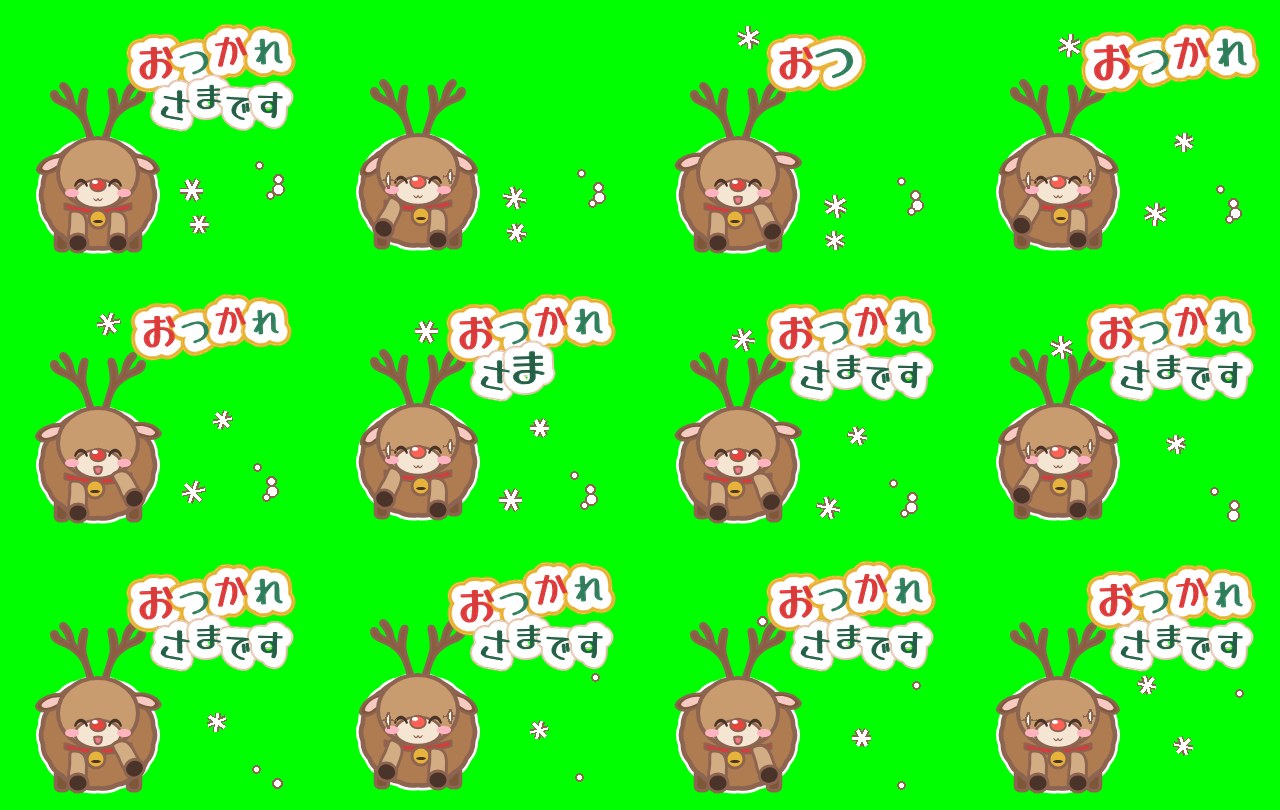
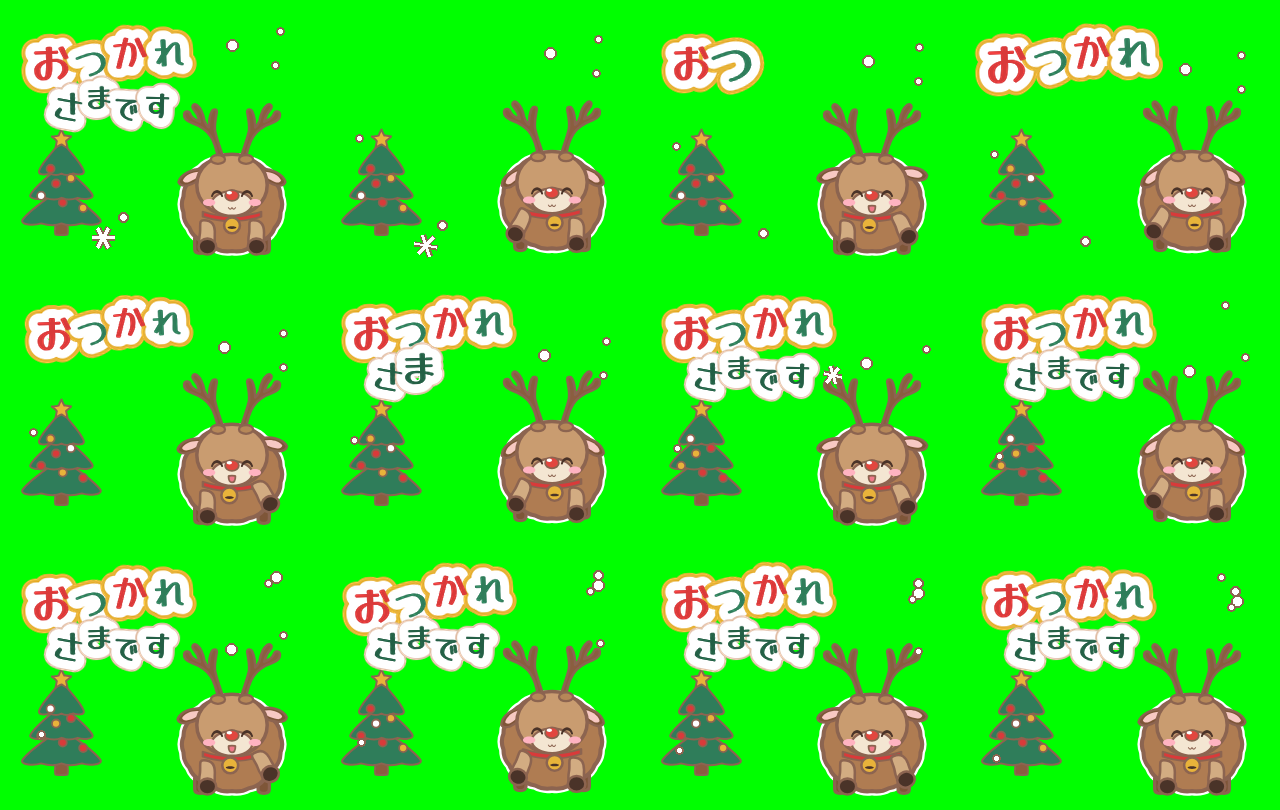
set04: サンタとトナカイを再修正(帽子のカーブ・腕の位置・口・ベルト・角・ツリー)、決まりごとに追加
Claude-Session: https://claude.ai/code/session_01RfomAZL54wRevPjVr3cHPk

diff --git a/tools/xmas.py b/tools/xmas.py
@@ -168,11 +168,14 @@ def reindeer(c):
     put(c, "NECK3_bellline", HOOF, 0, 10, 3, 155 + fx + sw_, 222 + fy, soft.ellipse_d(10, 3))
     # 前足(体の前、明るい茶+ひづめ)。付け根を支点に大きく動かす
     fl, fr_ = p.get("fl", 0), p.get("fr", 0)
-    arm_part(c, "P6", bcx - 20, by + bh - 40, fl, 36, 20, DEER_FRONT, HOOF, 20, lift=p.get("lfl", 0))
-    arm_part(c, "P7", bcx + 20, by + bh - 40, -fr_, 36, 20, DEER_FRONT, HOOF, 20, lift=p.get("lfr", 0))
+    arm_part(c, "P6", bcx - 28, by + bh - 38, fl, 34, 20, DEER_FRONT, HOOF, 20, lift=p.get("lfl", 0))
+    arm_part(c, "P7", bcx + 28, by + bh - 38, -fr_, 34, 20, DEER_FRONT, HOOF, 20, lift=p.get("lfr", 0))
     # 角: 頭のてっぺんから(根元は顔に重ねて隠す)。顔より後ろ、体より前
-    put(c, "FACE0a_antlerL", ANTLER, 2, 62, 62, 104 + fx, 84 + fy, ANTLER_LP, vw=200, vh=200)
-    put(c, "FACE0a_antlerR", ANTLER, 2, 62, 62, 154 + fx, 84 + fy, ANTLER_RP, vw=200, vh=200)
+    put(c, "ANTL1", ANTLER, 2.4, 64, 64, 96 + fx, 82 + fy, ANTLER_LP, vw=200, vh=200)
+    put(c, "ANTL2", ANTLER, 2.4, 64, 64, 160 + fx, 82 + fy, ANTLER_RP, vw=200, vh=200)
+    # 根元のこぶ(頭のてっぺんにのせる)
+    put(c, "ANTL3", ANTLER_L2, 2, 16, 10, 136 + fx, 141 + fy, soft.ellipse_d(16, 10))
+    put(c, "ANTL4", ANTLER_L2, 2, 16, 10, 168 + fx, 141 + fy, soft.ellipse_d(16, 10))
     deer_ear(c, 130 + fx, 160 + fy, -1, -20 + p.get("el", 0))
     deer_ear(c, 190 + fx, 160 + fy, 1, 20 + p.get("er", 0))
     put(c, "FACE1", DEER_FACE, 3.4, 80, 70, 120 + fx, 140 + fy, soft.ellipse_d(80, 70))
@@ -180,7 +183,7 @@ def reindeer(c):
     small_eyes(c)
     c["P12"]["left"] += 8
     c["P13"]["left"] -= 8
-    glow = p.get("glow", False)
+    glow = False  # 鼻は点滅させない(目のまわりがちかちかしないように)
     nx, ny = 160 + fx, 188 + fy
     c["P14"].update(d=soft.ellipse_d(20, 16), fill="#FF6157" if glow else "#E2463F", w=20, h=16, vw=20, vh=16,
                     left=nx - 10, top=ny - 9, sw=2, stroke=inko.INK, keep=soft.ellipse_d(20, 16))
@@ -196,6 +199,8 @@ def xmas_order(key):
         return winter.ORDER.index("P5") - 0.7
     if key.startswith("FACE0b"):  # 耳
         return winter.ORDER.index("P5") - 0.6
+    if key.startswith("ANTL"):  # 角: 顔より前(根元が頭のてっぺんにのって見える)、目より後ろ
+        return winter.ORDER.index("P5") - 0.3
     if key.startswith("NECK"):  # トナカイの首輪と鈴: 体より前、角・顔より後ろ…ではなく、あごの下に見せるので顔より前
         return winter.ORDER.index("P5") - 0.4
     if key.startswith("BEARD"):  # サンタのひげ: ベルトより前、鼻と口より後ろ
@@ -208,7 +213,7 @@ soft.inko_order = xmas_order
 
 
 # ---- サンタ -----------------------------------------------------------------------
-HAT_CONE = "M4 40 C10 22 26 6 48 4 C60 4 70 10 76 18 L60 40 Z"     # 80x42。右上へ尖る
+HAT_CONE = "M4 42 C6 24 20 8 42 5 C56 3 68 8 76 16 C80 20 79 25 75 27 C70 22 64 21 60 24 C58 30 62 36 66 42 C46 46 22 46 4 42 Z"  # 80x46。全部カーブ、先は右へたれる
 BEARD = _circles(184, 96, 128, 54, 10, 42)        # 4倍(368x192 → 92x48)
 BEARD_IN = _circles(184, 96, 128, 54, 10, 42, shrink=9)
 STACHE_L = "M30 10 C24 2 12 0 4 6 C0 10 4 16 10 14 C16 12 22 14 30 14 Z"
@@ -237,31 +242,31 @@ def santa(c):
     bx, by, bw, bh = b["left"], b["top"], b["w"], b["h"]
     bcx = bx + bw / 2
     # すその白い毛・ベルト・バックル(すべて体の位置から置く → 体と一緒に動く)
-    put(c, "MID0_hem", WHITE, 2.4, bw * 0.78, 14, bcx - bw * 0.39, by + bh - 18, soft.ellipse_d(bw * 0.78, 14))
-    put(c, "MID1_belt", "#3A2E2E", 2, bw * 0.86, 12, bcx - bw * 0.43, by + bh * 0.58, soft.ellipse_d(bw * 0.86, 12))
-    put(c, "MID2_buckle", GOLD, 2, 20, 16, bcx - 10, by + bh * 0.58 - 2, "M3 1 L17 1 C19 1 19 3 19 3 L19 13 C19 15 17 15 17 15 L3 15 C1 15 1 13 1 13 L1 3 C1 1 3 1 3 1 Z")
+    put(c, "MID0_hem", WHITE, 2.4, bw * 0.7, 12, bcx - bw * 0.35, by + bh - 12, soft.ellipse_d(bw * 0.7, 12))
+    put(c, "MID1_belt", "#3A2E2E", 2, bw * 0.9, 13, bcx - bw * 0.45, by + bh * 0.74, soft.ellipse_d(bw * 0.9, 13))
+    put(c, "MID2_buckle", GOLD, 2, 20, 16, bcx - 10, by + bh * 0.74 - 2, "M3 1 L17 1 C19 1 19 3 19 3 L19 13 C19 15 17 15 17 15 L3 15 C1 15 1 13 1 13 L1 3 C1 1 3 1 3 1 Z")
     # 長ぐつ(黒+白い毛のふち)
     for k, x, up in (("P2", bcx - 22, p.get("hl", 0)), ("P3", bcx + 22, p.get("hr", 0))):
         d = BOOT if k == "P3" else mirror(BOOT, 28)
         c[k].update(d=d, fill="#3A2E2E", w=28, h=20, vw=28, vh=20, left=x - 14, top=by + bh - 10 - up, keep=d)
     # 腕: 太い袖(赤)+白い毛の袖口+白い手ぶくろ。肩を支点に大きく動く
     al, ar = p.get("al", 0), p.get("ar", 0)
-    arm_part(c, "P6", bx + 16, by + 20, 28 + al, 36, 22, RED_D, WHITE, 20, cuff=WHITE)
-    arm_part(c, "P7", bx + bw - 16, by + 20, -28 - ar, 36, 22, RED_D, WHITE, 20, cuff=WHITE)
+    arm_part(c, "P6", bx + 10, by + bh * 0.45, 30 + al, 34, 22, RED_D, WHITE, 20, cuff=WHITE)
+    arm_part(c, "P7", bx + bw - 10, by + bh * 0.45, -30 - ar, 34, 22, RED_D, WHITE, 20, cuff=WHITE)
     # 顔
     put(c, "FACE1", SKIN, 3.4, 80, 72, 120 + fx, 140 + fy, soft.ellipse_d(80, 72))
-    put(c, "BEARD1", WHITE, 2, 92, 48, 114 + fx, 196 + fy, BEARD, vw=368, vh=192)
-    put(c, "BEARD2_in", WHITE, 0, 92, 48, 114 + fx, 196 + fy, BEARD_IN, vw=368, vh=192)
+    put(c, "BEARD1", WHITE, 2, 86, 42, 117 + fx, 190 + fy, BEARD, vw=368, vh=192)
+    put(c, "BEARD2_in", WHITE, 0, 86, 42, 117 + fx, 190 + fy, BEARD_IN, vw=368, vh=192)
     small_eyes(c, 0.86)
     c["P12"]["left"] += 6
     c["P13"]["left"] -= 6
     # 鼻(目の間の少し下)
     c["P14"].update(d=soft.ellipse_d(15, 12), fill=SKIN_D, w=15, h=12, vw=15, vh=12,
-                    left=152.5 + fx, top=190 + fy, sw=2, stroke=inko.INK, keep=soft.ellipse_d(15, 12))
+                    left=152.5 + fx, top=184 + fy, sw=2, stroke=inko.INK, keep=soft.ellipse_d(15, 12))
     # 口ひげ(鼻の下)と口(口ひげの下、人のにっこり)
-    put(c, "P14y_stacheL", WHITE, 2, 30, 14, 130 + fx, 199 + fy, STACHE_L, vw=34, vh=16)
-    put(c, "P14y_stacheR", WHITE, 2, 30, 14, 160 + fx, 199 + fy, STACHE_R, vw=34, vh=16)
-    c["P15"].update(d=SMILE, fill=soft.LINE, sw=0, stroke=None, w=20, h=10, vw=22, vh=12, left=150 + fx, top=213 + fy,
+    put(c, "P14y_stacheL", WHITE, 2, 24, 11, 136 + fx, 193 + fy, STACHE_L, vw=34, vh=16)
+    put(c, "P14y_stacheR", WHITE, 2, 24, 11, 160 + fx, 193 + fy, STACHE_R, vw=34, vh=16)
+    c["P15"].update(d=SMILE, fill=soft.LINE, sw=0, stroke=None, w=20, h=10, vw=22, vh=12, left=150 + fx, top=203 + fy,
                     keep=SMILE)
     # 帽子: ふち(白)は顔について行く。円すい部分は、ぼんぼりと一緒に swing 度だけ遅れてゆれる
     sw_ = p.get("hat", 0)
@@ -270,12 +275,12 @@ def santa(c):
     cone_cx, cone_cy = band_cx + 4, band_cy - 20
     ccx = band_cx + (cone_cx - band_cx) * math.cos(r) - (cone_cy - band_cy) * math.sin(r)
     ccy = band_cy + (cone_cx - band_cx) * math.sin(r) + (cone_cy - band_cy) * math.cos(r)
-    put(c, "ACC1_hat", RED, 2.4, 86, 46, ccx - 43, ccy - 23, HAT_CONE, rot=sw_, vw=80, vh=42)
-    tip_x, tip_y = 76 / 80 * 86 - 43, 18 / 42 * 46 - 23  # 帽子の先(箱の中心から)
+    put(c, "ACC1_hat", RED, 2.4, 86, 48, ccx - 43, ccy - 24, HAT_CONE, rot=sw_, vw=80, vh=46)
+    tip_x, tip_y = 77 / 80 * 86 - 43, 22 / 46 * 48 - 24  # 帽子の先(箱の中心から)
     px_ = ccx + tip_x * math.cos(r) - tip_y * math.sin(r)
     py_ = ccy + tip_x * math.sin(r) + tip_y * math.cos(r)
-    band = "M10 4 L170 4 C178 4 182 10 182 18 C182 26 178 32 170 32 L10 32 C2 32 -2 26 -2 18 C-2 10 2 4 10 4 Z"
-    put(c, "ACC2_hatband", WHITE, 2.4, 92, 20, band_cx - 46, band_cy - 10, band, vw=180, vh=36)
+    band = "M10 6 C60 0 120 0 170 6 C180 8 182 14 182 20 C182 28 176 32 168 32 C120 26 60 26 12 32 C4 32 -2 28 -2 20 C-2 12 2 7 10 6 Z"
+    put(c, "ACC2_hatband", WHITE, 2.4, 92, 20, band_cx - 46, band_cy - 10, band, vw=180, vh=36)  # ふちもゆるく弧に
     put(c, "ACC3_pom", WHITE, 2.4, 22, 22, px_ - 11, py_ - 11, soft.ellipse_d(22, 22))
 
 
@@ -285,6 +290,54 @@ def talk_santa(c):
 
 def talk_deer(c):
     c["P15"].update(d=MOUTH_OPEN, fill=soft.BEAK_OPEN_FILL, sw=1.5, stroke=inko.INK, keep=MOUTH_OPEN)
+
+
+# ---- ツリー(背景に置く。キャラには付いて行かない) ------------------------------------
+
+def tier_path(w, h):
+    """ツリーの段: 上はとがらせず丸く、横はふくらんだカーブ、下のふちは3つの波。直線を使わない。"""
+    c = w / 2
+    return (f"M{c - 4:.1f} 2 C{c - 2:.1f} 0 {c + 2:.1f} 0 {c + 4:.1f} 2 "
+            f"C{c + w * 0.2:.1f} {h * 0.3:.1f} {w * 0.92:.1f} {h * 0.62:.1f} {w - 2:.1f} {h * 0.86:.1f} "
+            f"C{w:.1f} {h - 1:.1f} {w * 0.84:.1f} {h:.1f} {w * 0.75:.1f} {h * 0.94:.1f} "
+            f"C{w * 0.66:.1f} {h:.1f} {w * 0.56:.1f} {h:.1f} {c:.1f} {h * 0.94:.1f} "
+            f"C{w * 0.44:.1f} {h:.1f} {w * 0.34:.1f} {h:.1f} {w * 0.25:.1f} {h * 0.94:.1f} "
+            f"C{w * 0.16:.1f} {h:.1f} 0 {h - 1:.1f} 2 {h * 0.86:.1f} "
+            f"C{w * 0.08:.1f} {h * 0.62:.1f} {c - w * 0.2:.1f} {h * 0.3:.1f} {c - 4:.1f} 2 Z")
+
+
+def star_path(r):
+    """角を丸めた5つの角の星(直線を使わない)。"""
+    pts = []
+    for k in range(10):
+        a = -math.pi / 2 + k * math.pi / 5
+        rr = r if k % 2 == 0 else r * 0.48
+        pts.append((r + rr * math.cos(a), r + rr * math.sin(a)))
+    d = f"M{pts[0][0]:.1f} {pts[0][1]:.1f}"
+    for k in range(1, 11):
+        x0, y0 = pts[k - 1]
+        x1, y1 = pts[k % 10]
+        d += f" C{x0 + (x1 - x0) * 0.4:.1f} {y0 + (y1 - y0) * 0.4 + (1 if k % 2 else -1):.1f} " \
+             f"{x0 + (x1 - x0) * 0.6:.1f} {y0 + (y1 - y0) * 0.6:.1f} {x1:.1f} {y1:.1f}"
+    return d + " Z"
+
+
+def tree(x, y, k=1.0, lights=0):
+    """ツリー(左上 x, y、高さ約 150*k)。深い緑の3段、赤と金の玉、てっぺんに金の星、茶色の幹。
+    lights: 玉の色を順番に入れかえる(点滅ではなく、ゆっくり色が変わる)。"""
+    def f(c):
+        def tp(key, fill, sw, w, h, dx, dy, d):
+            put(c, key, fill, sw, w * k, h * k, x + dx * k, y + dy * k, d, vw=w, vh=h)
+        tp("BG3_trunk", "#8A5E40", 2.4, 22, 22, 49, 126, "M4 1 C8 0 14 0 18 1 C20 6 21 14 20 21 C14 22 8 22 2 21 C1 14 2 6 4 1 Z")
+        tp("BG4_t3", GREEN, 2.4, 120, 54, 0, 80, tier_path(120, 54))
+        tp("BG5_t2", GREEN, 2.4, 96, 50, 12, 46, tier_path(96, 50))
+        tp("BG6_t1", GREEN, 2.4, 70, 48, 25, 12, tier_path(70, 48))
+        cols = [RED, GOLD, "#FFFFFF", RED, GOLD, RED]
+        spots = [(44, 50), (74, 64), (30, 90), (62, 100), (92, 108), (52, 72)]
+        for j, (ox, oy) in enumerate(spots):
+            tp(f"BG7_orn{j}", cols[(j + lights) % len(cols)], 2, 12, 12, ox - 6, oy - 6, soft.ellipse_d(12, 12))
+        tp("BG8_star", GOLD, 2.4, 30, 30, 45, -8, star_path(15))
+    return f
 
 
 # ---- 台本 -------------------------------------------------------------------------
@@ -308,11 +361,16 @@ def both(*fs):
 
 # 01 サンタ「メリー/クリスマス」: 真ん中の少し左に大きく。文字は右上へ斜めに。
 #    跳ねて両手を上げ(ばんざい)、着地でぺこり。帽子の先は遅れて大きくゆれる。
-POSE01 = [S, J0, J1, J2, J1, J0, S, B1, B2, B1, S, S]
-MOVE01 = [dict(), dict(al=-6, ar=-6, hat=-6), dict(al=30, ar=26, hat=-14, hl=4), dict(al=36, ar=34, hat=10, hl=6, hr=6),
+POSE01 = [S, J0, J1, J1, J1, J0, S, B1, B2, B1, S, S]  # 高く跳ねすぎて文字にかからないよう J2 は使わない
+MOVE01_OLD = [dict(), dict(al=-6, ar=-6, hat=-6), dict(al=30, ar=26, hat=-14, hl=4), dict(al=36, ar=34, hat=10, hl=6, hr=6),
           dict(al=26, ar=30, hat=18), dict(al=4, ar=8, hat=6, hr=4), dict(al=-4, ar=-2, hat=-8),
           dict(al=-14, ar=-14, hat=-12), dict(al=-18, ar=-18, hat=8), dict(al=-12, ar=-10, hat=14),
           dict(al=10, ar=-4, hat=-6, hl=3), dict(al=-4, ar=12, hat=4, hr=3)]
+# 左手は大きくふり上げて手をふる、右手は少し遅れて小さく(左右で別の動き)
+MOVE01 = [dict(), dict(al=10, ar=-8, hat=-6, hl=3), dict(al=34, ar=-4, hat=-14), dict(al=50, ar=8, hat=-4, hr=4),
+          dict(al=36, ar=22, hat=12, hl=4), dict(al=52, ar=12, hat=18), dict(al=30, ar=-6, hat=6, hr=3),
+          dict(al=-4, ar=-14, hat=-10), dict(al=-12, ar=-20, hat=6), dict(al=-6, ar=-12, hat=14),
+          dict(al=24, ar=0, hat=-4, hl=3), dict(al=40, ar=10, hat=4, hr=3)]
 # 05 トナカイ「おつかれ/さまです」: 左に置いて、文字は右に。前足を交互に大きく上げて歩く。鼻がぴかっ
 MOVE05 = [dict(), dict(fl=26, lfl=8, el=-14, er=8, bell=3, glow=True), dict(fr=26, lfr=8, el=8, er=-14, bell=-3),
           dict(fl=30, lfl=10, el=-12, er=6, bell=3, glow=True), dict(fr=30, lfr=10, el=6, er=-12, bell=-3),
@@ -328,12 +386,13 @@ def bob(dy):
 
 STAMPS = {
     "01": make("xmas", [("メリー", 44, True), ("クリスマス", 32, True)], "B",
-               lambda i: [POSE01[i], happy, P(**MOVE01[i]), santa], both(bells_travel, snowf(1)),
-               m=dict(scale=0.88, anchor=(104, 240)), x0=96),
-    "05": make("xmas", [("おつかれ", 38, True), ("さまです", 32, False)], "A",
-               lambda i: [S, happy, (lambda c, d=BOB05[i]: inko.move(c, list(c), dy=d)), P(**MOVE05[i]), reindeer],
-               lambda i, av: ([("spark", 68, 180, 8), ("spark", 130, 176, 7)] if MOVE05[i].get("glow") else [])
-               + winter.snow(5, 5, i, avoid=av), m=dict(scale=1.0, anchor=(98, 256)), x0=126),
+               lambda i: [POSE01[i], happy, P(**MOVE01[i]), santa, tree(300, 104, 0.9, i // 3)],
+               both(bells_travel, snowf(1)),
+               m=dict(scale=0.76, anchor=(100, 253)), x0=22),
+    "05": make("xmas", [("おつかれ", 40, True), ("さまです", 30, False)], "A",
+               lambda i: [S, happy, (lambda c, d=BOB05[i]: inko.move(c, list(c), dy=d)), P(**MOVE05[i]), reindeer,
+                          tree(-80, 118, 0.77, i // 3)],
+               lambda i, av: winter.snow(5, 5, i, avoid=av), m=dict(scale=0.88, anchor=(232, 258)), x0=20),
 }
 
 for name, frames in STAMPS.items():

diff --git a/docs/stamp_rules.md b/docs/stamp_rules.md
@@ -66,6 +66,14 @@ set01「ていねいインコ」で、ユーザーと品質チェックから受
 | 3.6-8 | おなかに袋のような楕円を付けない(カンガルーに見える)。明るい色を入れるなら、あごの下の小さなふわふわの毛くらいにする | set04「お腹がおかしい、カンガルーみたい」 |
 | 3.6-9 | 1色でべたっと塗らない。体に明るい部分・濃い部分、首輪や小物で色を足す | set04「色も単色」 |
 | 3.6-10 | 前足と後ろ足は色や明るさを変えて、どちらが前足か分かるようにする | set04「前足と後ろ脚が同じ色で前足がわからない」 |
+| 3.6-11 | 帽子・服・ツリーなどの形に、まっすぐな線を使わない(端も辺もゆるいカーブ)。描いたら拡大して直線が残っていないか確かめる | set04「帽子は直線になっている」 |
+| 3.6-12 | 腕は体の横(肩=体の上から4割くらいの高さ)から生やす。頭から生えて見える高さに付けない | set04「腕の位置が頭から生えている」 |
+| 3.6-13 | 口は鼻のすぐ下。ひげがあっても下げすぎない | set04「口元の位置が下がりすぎ」 |
+| 3.6-14 | 部品の後ろから別の部品のはしが少しだけのぞく所を作らない(ひげの横からベルトが黒くのぞく、など)。のぞくなら全部見せるか、全部隠す | set04「髭の両端に黒い謎の物」 |
+| 3.6-15 | 左右の腕(前足)は、角度もタイミングも別々に動かす。同じ動きの表を左右に使わない | set04「両腕の動きが同じ」 |
+| 3.6-16 | 角は頭のてっぺんに根元を見せて生やす(左右の根元は近く、外へ広がる) | set04「角の生え方がおかしい」 |
+| 3.6-17 | 目・口・鈴・首輪など大事な部品に、キラキラ・文字・足・飾りを重ねない。目のまわりにちかちかする物を置かない | set04「目が被ってる」「目の周りにちかちか」「ベルも被ってる」 |
+| 3.6-18 | 季節のセットは、どのスタンプにも季節の物を入れる(クリスマスならツリー・プレゼント・ヒイラギ・オーナメントなど)。キャラと雪だけで済ませない | set04「ツリーも無い。クリスマス感が全くない」 |
 
 ## 3.7 構図のバリエーション
 

diff --git a/work/set04/qa.md b/work/set04/qa.md
@@ -16,3 +16,10 @@
 - 文字の色: 赤と深い緑を1字ずつ交互、ほかの語は緑、金のフチ。
 - 道具: 緑かぶりの除去を輪郭のまわりだけにした(ツリーや緑の文字が消えないように)。
 - 全コマ縁10px以上・規定 OK。白と水色の背景で確認。
+
+## 作り直し2(2026-11-04)
+
+- サンタ: 帽子・帽子のふちを全部カーブに(直線なし)。腕は体の横(上から45%)から。鼻・口ひげ・口を上げ、口は鼻のすぐ下。ひげの横から黒くのぞいていたベルトは、ひげの下に全部見える位置へ移した。左右の腕は別々の動き(左は大きく手をふり、右は小さく遅れて)。
+- トナカイ: 角は頭のてっぺんに根元のこぶを見せて生やした(左右の根元は近く、外へ広がる)。目のまわりのキラキラをやめ、鼻の点滅もやめた。前足を外へ広げて、鈴が足に隠れないようにした。
+- 2個ともツリー(深い緑・赤と金の玉・金の星・茶色の幹、直線なし)を入れた。サンタは左・ツリー右・文字左上、トナカイは右・ツリー左・文字左上。
+- 全コマ縁10px以上・規定 OK。白と水色の背景で確認。
